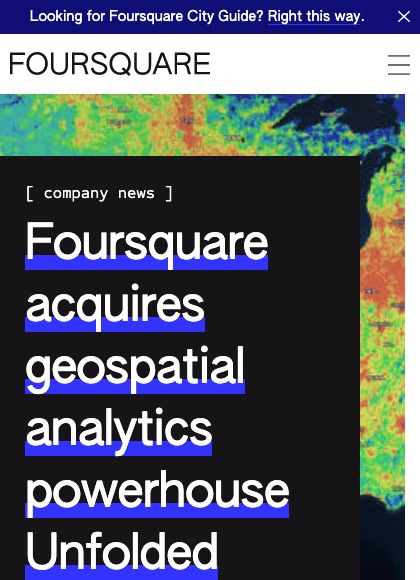
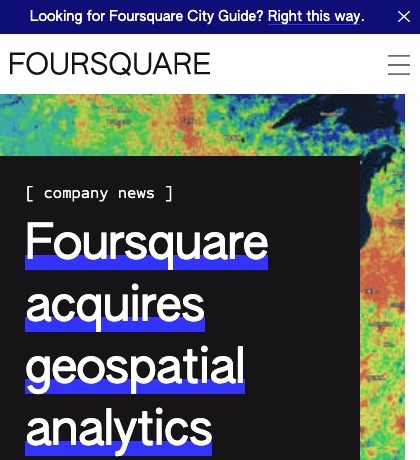
Make the screenshots a bit shorter.

diff --git a/netlify/functions/screenshot.js b/netlify/functions/screenshot.js
@@ -31,7 +31,7 @@ async function screenshot(url, viewportSize, withJs = true) {
 
   let buffer = await page.screenshot({
     type: "jpeg",
-    quality: 100,
+    quality: 80,
   });
 
   await browser.close();

diff --git a/.eleventy.js b/.eleventy.js
@@ -60,7 +60,7 @@ const shortcodes = {
 		let withJs = true;
 		let viewport = {
 			width: 420,
-			height: 580,
+			height: 460,
 		};
 
 		// TODO change this to master or something
